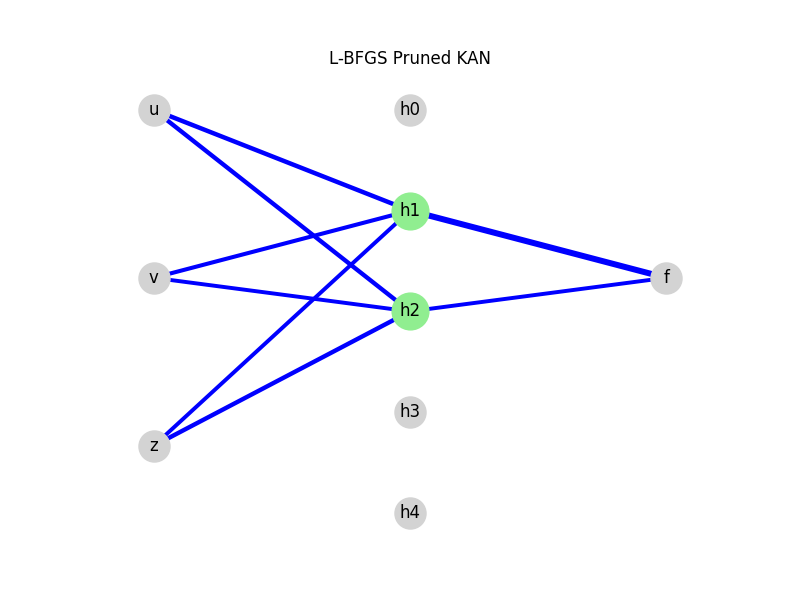
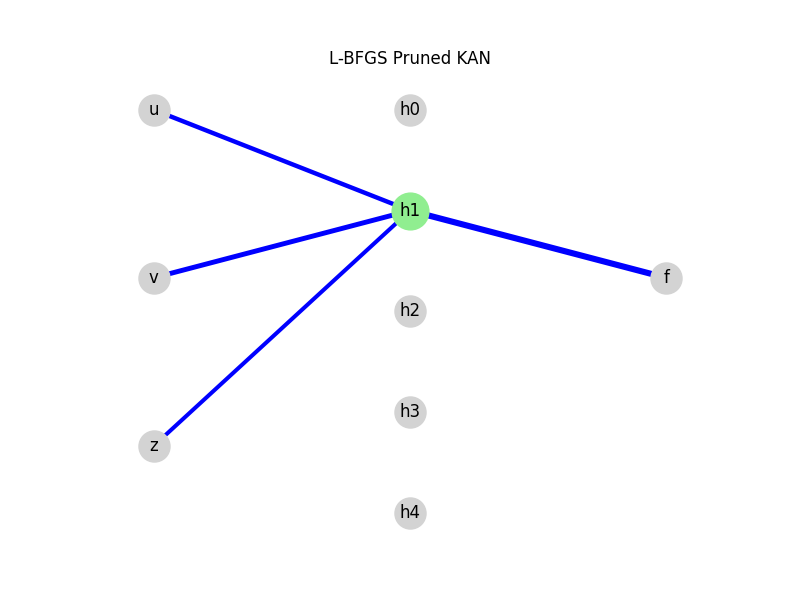
tried different function

diff --git a/KAN/kan_exact.py b/KAN/kan_exact.py
@@ -4,6 +4,7 @@ import torch.nn.functional as F
 import torch.optim as optim
 import numpy as np
 import matplotlib.pyplot as plt
+import networkx as nx
 
 # ==========================================
 # 1. SETUP & GPU CONFIG
@@ -15,20 +16,21 @@ if torch.cuda.is_available():
     print(f"✅ Running on {torch.cuda.get_device_name(0)}")
 
 # ==========================================
-# 2. DATASET (Relativistic Velocity + Noise)
+# 2. DATASET (Complex Function)
 # ==========================================
 class FeynmanDataset:
     def __init__(self, num_samples=10000, mode='train'):
         if mode == 'test': torch.manual_seed(42)
         
-        # u, v = Physics. z = Noise.
-        self.u = torch.rand(num_samples, 1) * 1.8 - 0.9
-        self.v = torch.rand(num_samples, 1) * 1.8 - 0.9
-        self.z = torch.rand(num_samples, 1) * 1.8 - 0.9 
+        # 4 Inputs
+        self.x1 = torch.rand(num_samples, 1) * 2 - 1
+        self.x2 = torch.rand(num_samples, 1) * 2 - 1
+        self.x3 = torch.rand(num_samples, 1) * 2 - 1
+        self.x4 = torch.rand(num_samples, 1) * 2 - 1
         
-        # Target: f = (u+v)/(1+uv)
-        self.y = (self.u + self.v) / (1 + self.u * self.v)
-        self.x = torch.cat([self.u, self.v, self.z], dim=1)
+        # Target: f = exp(sin(pi*x1) + x2^2) + sin(x3*x4)
+        self.y = torch.exp(torch.sin(torch.pi * self.x1) + self.x2**2) + torch.sin(self.x3 * self.x4)
+        self.x = torch.cat([self.x1, self.x2, self.x3, self.x4], dim=1)
         
     def to_device(self, device):
         self.x = self.x.to(device)
@@ -198,7 +200,7 @@ def train_experiment(model, train_data, test_data, name, do_pruning=False):
         
         # --- PRUNING EVENT ---
         if do_pruning and epoch == prune_epoch:
-            model.prune_nodes(threshold=1e-2)
+            model.prune_nodes(threshold=1e-6)
             # Reset optimizer for clean fine-tuning
             optimizer = optim.AdamW(model.parameters(), lr=0.001)
 
@@ -243,21 +245,22 @@ def plot_pruned_architecture(model, filename="kan_pruned_architecture.png"):
     G = nx.Graph()
     pos = {}
     
-    # 1. Inputs (u, v, z)
-    inputs = ['u', 'v', 'z']
+    # 1. Inputs (x1, x2, x3, x4)
+    inputs = ['x1', 'x2', 'x3', 'x4']
     for i, name in enumerate(inputs):
         G.add_node(name, layer=0)
         pos[name] = (0, -i)
         
-    # 2. Hidden Nodes (0 to 4)
-    for i in range(5):
+    # 2. Hidden Nodes (0 to 9)
+    num_hidden = layer0.out_features
+    for i in range(num_hidden):
         node_name = f"h{i}"
         G.add_node(node_name, layer=1)
-        pos[node_name] = (1, -i * 0.6)
+        pos[node_name] = (1, -i * (len(inputs)/num_hidden)) # Scale spacing
         
     # 3. Output
     G.add_node("f", layer=2)
-    pos["f"] = (2, -1)
+    pos["f"] = (2, -1.5)
     
     # DRAW EDGES
     colors = []
@@ -265,8 +268,8 @@ def plot_pruned_architecture(model, filename="kan_pruned_architecture.png"):
     
     # Input -> Hidden
     w_in = layer0.spline_scaler.detach().cpu().numpy() # (Hidden, In)
-    for h in range(5):
-        for i in range(3):
+    for h in range(num_hidden):
+        for i in range(len(inputs)):
             # If hidden node is dead, make line invisible
             strength = w_in[h, i] if h in active_indices else 0
             if strength > 0.01:
@@ -276,7 +279,7 @@ def plot_pruned_architecture(model, filename="kan_pruned_architecture.png"):
 
     # Hidden -> Output
     w_out = layer1.spline_scaler.detach().cpu().numpy() # (Out, Hidden)
-    for h in range(5):
+    for h in range(num_hidden):
         strength = w_out[0, h] if h in active_indices else 0
         if strength > 0.01:
             G.add_edge(f"h{h}", "f")
@@ -307,11 +310,11 @@ if __name__ == "__main__":
     test_data = FeynmanDataset(2000, mode='test').to_device(device)
     
     # 1. Unpruned Experiment
-    model_unpruned = KANPaper([3, 5, 1]).to(device)
+    model_unpruned = KANPaper([4, 10, 1]).to(device)
     hist_unpruned = train_experiment(model_unpruned, train_data, test_data, "Unpruned KAN", do_pruning=False)
     
     # 2. Pruned Experiment
-    model_pruned = KANPaper([3, 5, 1]).to(device)
+    model_pruned = KANPaper([4, 10, 1]).to(device)
     hist_pruned = train_experiment(model_pruned, train_data, test_data, "Pruned KAN", do_pruning=True)
     
     # 3. Plotting
@@ -340,5 +343,6 @@ if __name__ == "__main__":
     
     plt.savefig("kan_exact_results.png")
     print("\n✅ Comparison saved to 'kan_exact_results.png'")
-
+    
+    # 4. Architecture Diagram
     plot_pruned_architecture(model_pruned)
